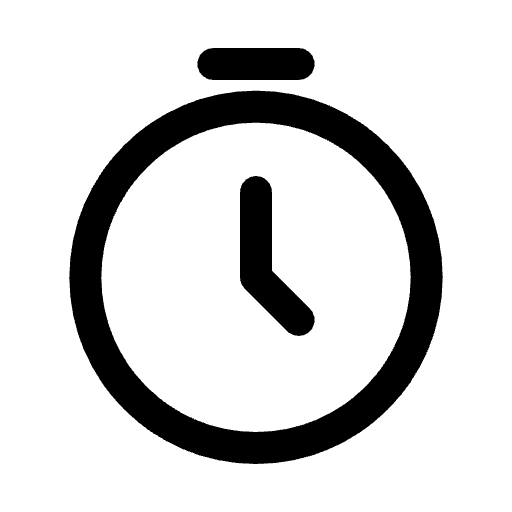
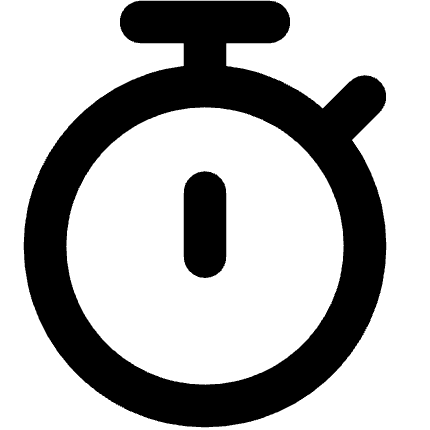
feat: new img

Changed region(s): [[0.0302, 0.0, 0.907, 0.9977], [0.4233, 0.3326, 0.6349, 0.6651], [0.2721, 0.2721, 0.3628, 0.3326]]

diff --git a/src/components/observationPresets/ObservationTile.tsx b/src/components/observationPresets/ObservationTile.tsx
@@ -88,10 +88,19 @@ export default function ObservationTile({
     removeObservationPreset(observationPreset.uuid);
   }
 
+  const totalMins =
+    observationPreset.type === "interval"
+      ? Math.floor(
+          (observationPreset.intervalSeconds *
+            observationPreset.totalIntervals) /
+            60,
+        )
+      : observationPreset.totalMins;
+
   return (
     <Tile
       title={observationPreset.name}
-      subTitle={observationPreset.type}
+      subTitle={`${totalMins} mins`}
       onPress={onPress}
       onEdit={onEdit}
       onRemove={onRemove}

diff --git a/src/utils/observationPresets/typeToIcon.ts b/src/utils/observationPresets/typeToIcon.ts
@@ -1,9 +1,9 @@
 import { ObservationPresetEnum } from "@/src/types/observations/observationTypes";
 import stopwatch from "@/assets/stopwatch.png";
-import abcSquares from "@/assets/abcSquares.png";
+import counter from "@/assets/counter.png";
 import { ImageSourcePropType } from "react-native";
 
 export const typeToIcon: Record<ObservationPresetEnum, ImageSourcePropType> = {
   interval: stopwatch,
-  counter: abcSquares,
+  counter: counter,
 };

diff --git a/src/components/observations/StartObservationModal.tsx b/src/components/observations/StartObservationModal.tsx
@@ -53,10 +53,7 @@ export default function StartObservationModal() {
 
     setTimeout(() => {
       if (preset.type === "interval") startInterval(preset.totalIntervals);
-      if (preset.type === "counter") {
-        console.log(preset.behaviorsList);
-        startCounter(preset.behaviorsList);
-      }
+      if (preset.type === "counter") startCounter(preset.behaviorsList);
     }, constants.modalDelay);
   }
 
